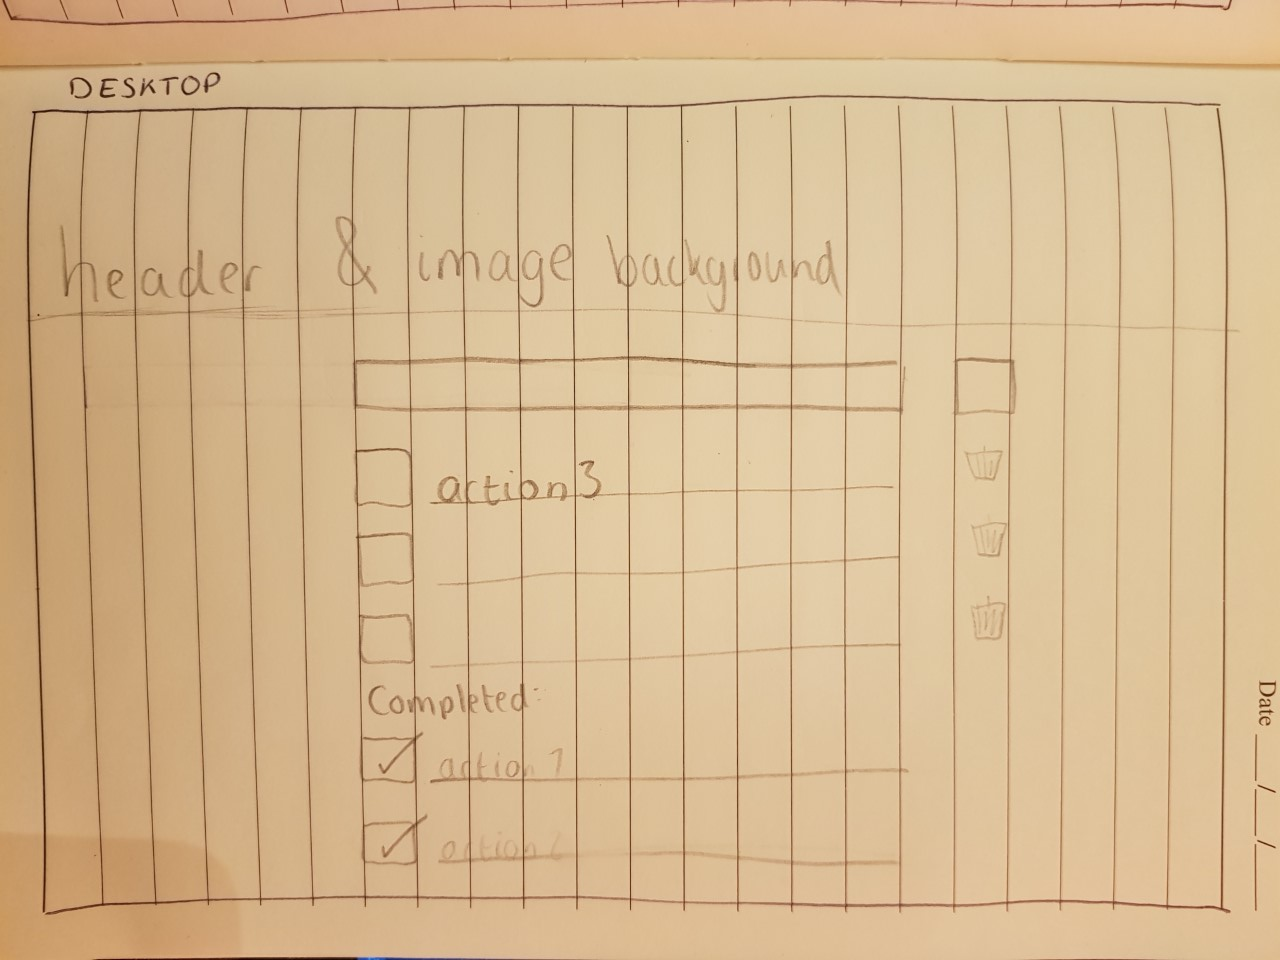
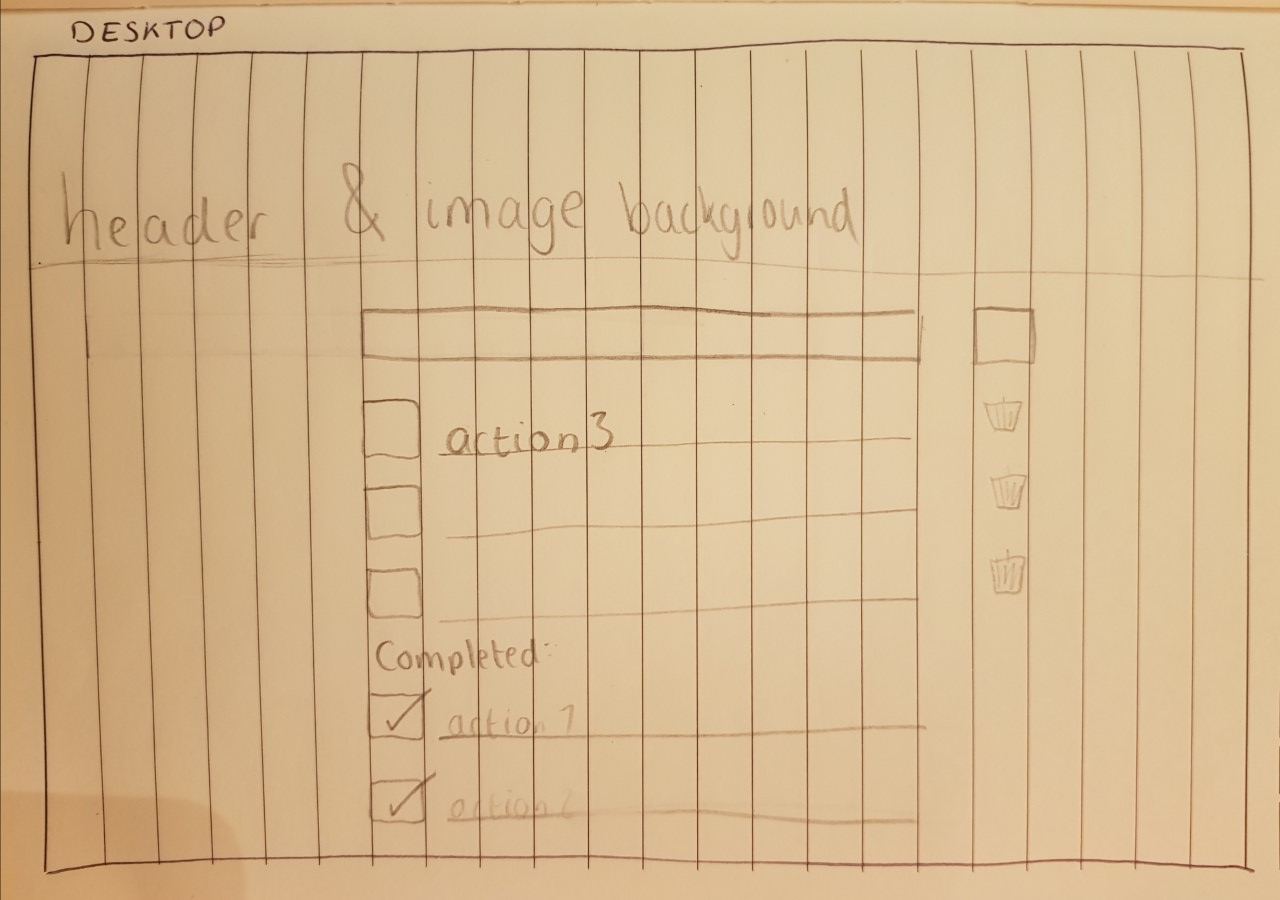
Header section and add task section complete

diff --git a/index.html b/index.html
@@ -1,13 +1,35 @@
 <!DOCTYPE html>
 <html lang="en">
+
 <head>
     <meta charset="UTF-8">
     <meta name="viewport" content="width=device-width, initial-scale=1.0">
-    <title>Wedding Todo</title>
-    <link rel="stylesheet" href="https://stackpath.bootstrapcdn.com/bootstrap/4.4.1/css/bootstrap.min.css" integrity="sha384-Vkoo8x4CGsO3+Hhxv8T/Q5PaXtkKtu6ug5TOeNV6gBiFeWPGFN9MuhOf23Q9Ifjh" crossorigin="anonymous">
-    <link rel="stylesheet" href="styles.css" >
+    <title>The Big Day To Do List</title>
+    <link rel="stylesheet" href="https://stackpath.bootstrapcdn.com/bootstrap/4.4.1/css/bootstrap.min.css"
+        integrity="sha384-Vkoo8x4CGsO3+Hhxv8T/Q5PaXtkKtu6ug5TOeNV6gBiFeWPGFN9MuhOf23Q9Ifjh" crossorigin="anonymous">
+    <link rel="stylesheet" href="styles.css">
 </head>
+
 <body>
-    
+    <div class="hero-image">
+        <div class="hero-text">
+            <h1>Wedding Day To Do List</h1>
+        </div>
+    </div>
+
+    <main>
+
+        <section>
+            <div class="input-group mb-3">
+                <input type="text" class="form-control" placeholder="Add your task" aria-label="Add Task"
+                    aria-describedby="button-addon2">
+                <div class="input-group-append">
+                    <button class="btn btn-outline-secondary" type="button" id="button-addon2">+</button>
+                </div>
+            </div>
+        </section>
+
+    </main>
 </body>
+
 </html>

diff --git a/styles.css b/styles.css
@@ -1,3 +1,40 @@
 body {
     background-color: lightpink;
 }
+
+main {
+    margin-left: 20%;
+    margin-right: 20%;
+}
+
+@media only screen and (max-width: 600px) {
+    main{
+        margin-left: 5%;
+        margin-right: 5%;
+    }
+}
+
+/* HERO BANNER CODE */
+
+body, html {
+    height: 100%;
+}
+
+.hero-image {
+  background-image: linear-gradient(rgba(0, 0, 0, 0.3), rgba(0, 0, 0, 0.5)), url("homeTitle.jpg");
+  height: 35%;
+  background-position: center;
+  background-repeat: no-repeat;
+  background-size: cover;
+  position: relative;
+  margin-bottom: 2rem;
+}
+
+.hero-text {
+  text-align: center;
+  position: absolute;
+  top: 50%;
+  left: 50%;
+  transform: translate(-50%, -50%);
+  color: white;
+}
